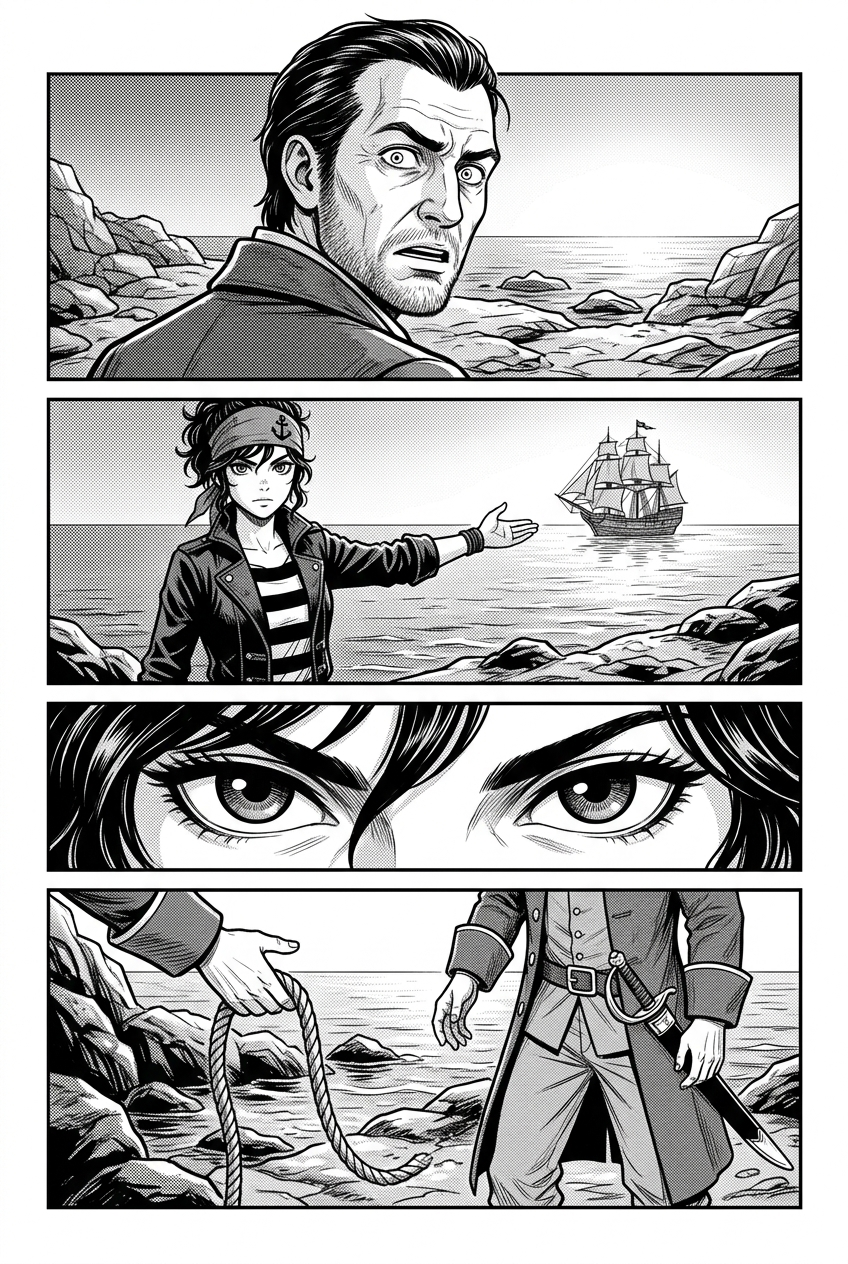
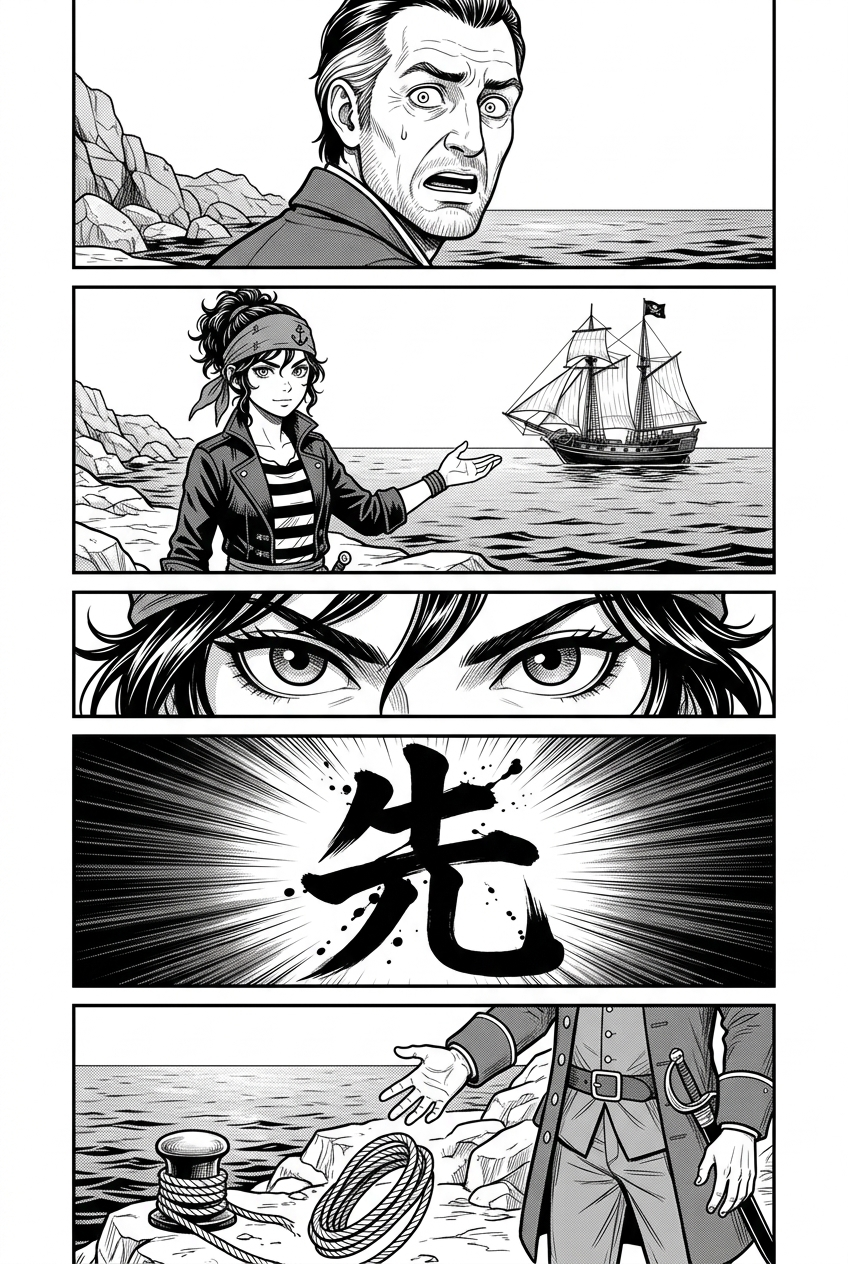
feat(comic): 007〈桅頂的賭注〉完成 P01/P02/P04 修正與 P05～P07（7/12）
- 依 summit #56 先行點名修正：
  - 007_p01.png：P1-② 父親右手背補單一深黑層疊結晶霜紋、改回連帽斗篷＋白髮（同 006）
  - 007_p02.png：P2-① 啞鐘半沉入水下無懸空、P2-③ 連帽斗篷＋「比哭難看一萬倍」苦笑、P2-①② 維持 0 狀聲詞
  - 007_p04.png：補齊完整 5 格（新增 P4-④ 集中線＋毛筆墨字「先」同 005-P4③）；P4-② 夜隼號改嚴格雙桅；P4-⑤ 改為卡戎自己的手鬆開纜繩（0 圈霜、刀未出鞘）
- 新繪並嵌入 Chapters/007.md：
  - 007_p05.png：P5-③ 舵輪中央對齊 002-P8② 俯衝隼徽陰形木疤、P5-④ 凜掌心平按於疤痕上
  - 007_p06.png：自內袋取出三年前拉環信號彈並端詳
  - 007_p07.png：雙桅甲板仰角舉起並拉響信號彈扳機（僅純白火花，暖色留給 P08）
- 機械檢查：007_p01～007_p07 共 7 張皆為 848×1264 PNG，PIL HSV 暖色像素均為 0 / 1071872 (0.0000%)

Refs TASK-0457

diff --git a/Comic/summit-masthead-bet/Chapters/007.md b/Comic/summit-masthead-bet/Chapters/007.md
@@ -142,6 +142,8 @@ storyboard_notes: |
 
 ## P5 — 那塊疤
 
+![007_p05](../RawImages/007_p05.png)
+
 **P5-①**〔中景〕凜登上夜隼號。天正在亮。
 **P5-②**〔特寫〕腳底下木頭的紋路。
 　字幕：「三年了。這塊木頭的紋路，我閉著眼都認得。」
@@ -150,12 +152,16 @@ storyboard_notes: |
 
 ## P6-P8 — 信物一：信號彈
 
+![007_p06](../RawImages/007_p06.png)
+
 **P6-①**〔特寫〕袖袋裡摸出那發暗紅信號彈。
 **P6-②**〔小格〕
 　字幕：「我原想好的，是打給卡戎看，告訴他『誰回來了』。」
 　字幕：「可三年的『最準一刻』，昨夜在鐘底失了準 ——
 　　　　因為站在我面前的，不是一個值得我大張旗鼓去恨的叛徒，
 　　　　是一個我恨不起來、也愛不下去的父親。」
+
+![007_p07](../RawImages/007_p07.png)
 
 **P7-①**〔中景〕她把信號彈舉起來，對著漸亮的東方。
 **P7-②**〔特寫〕扳機。
